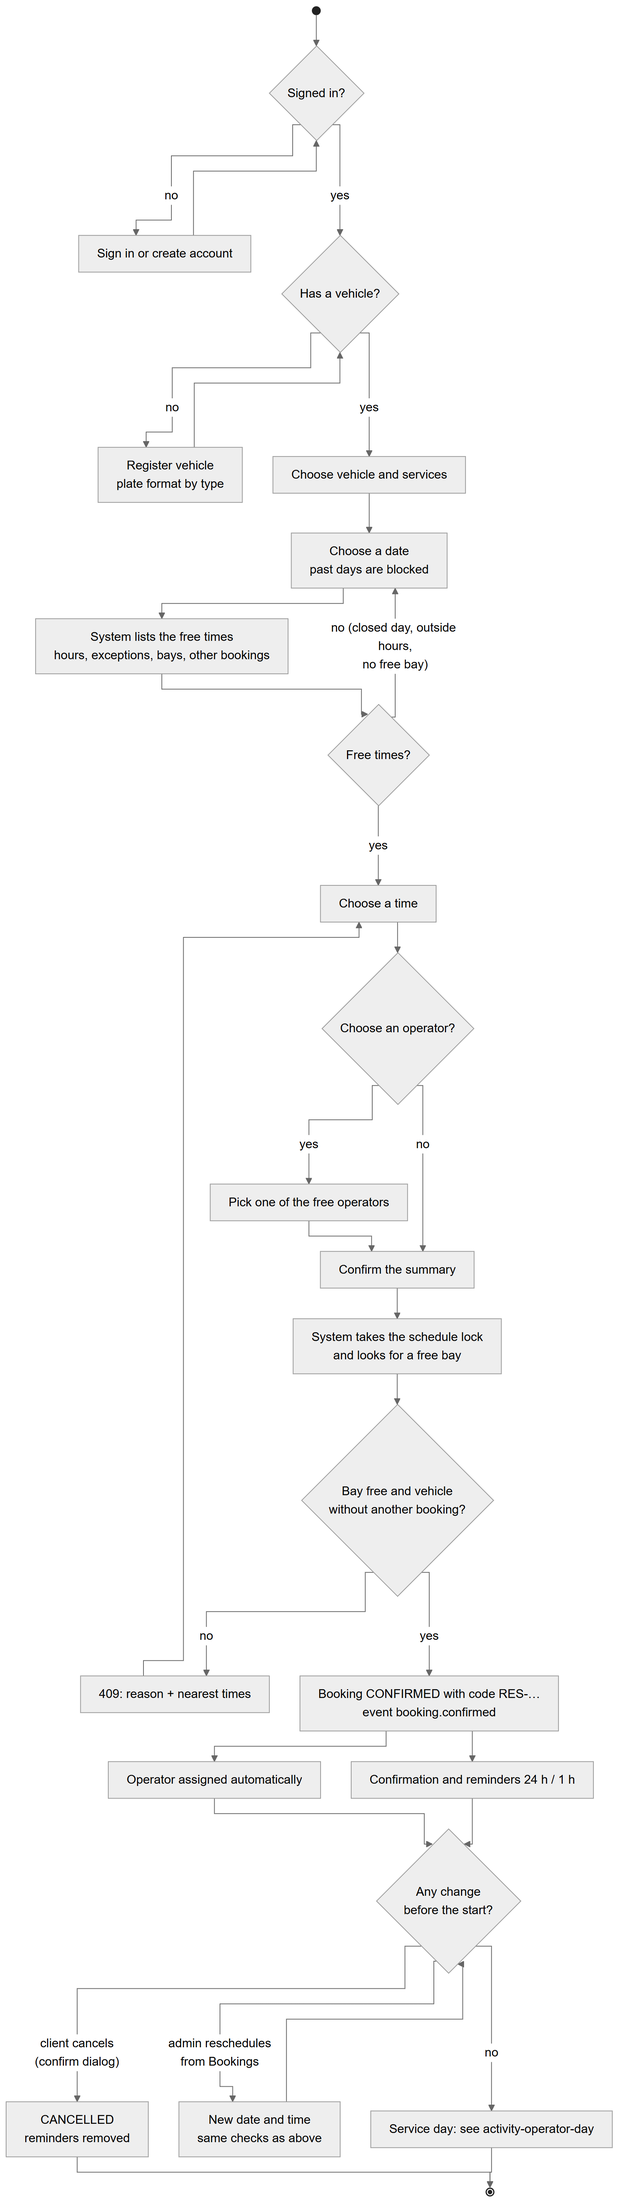
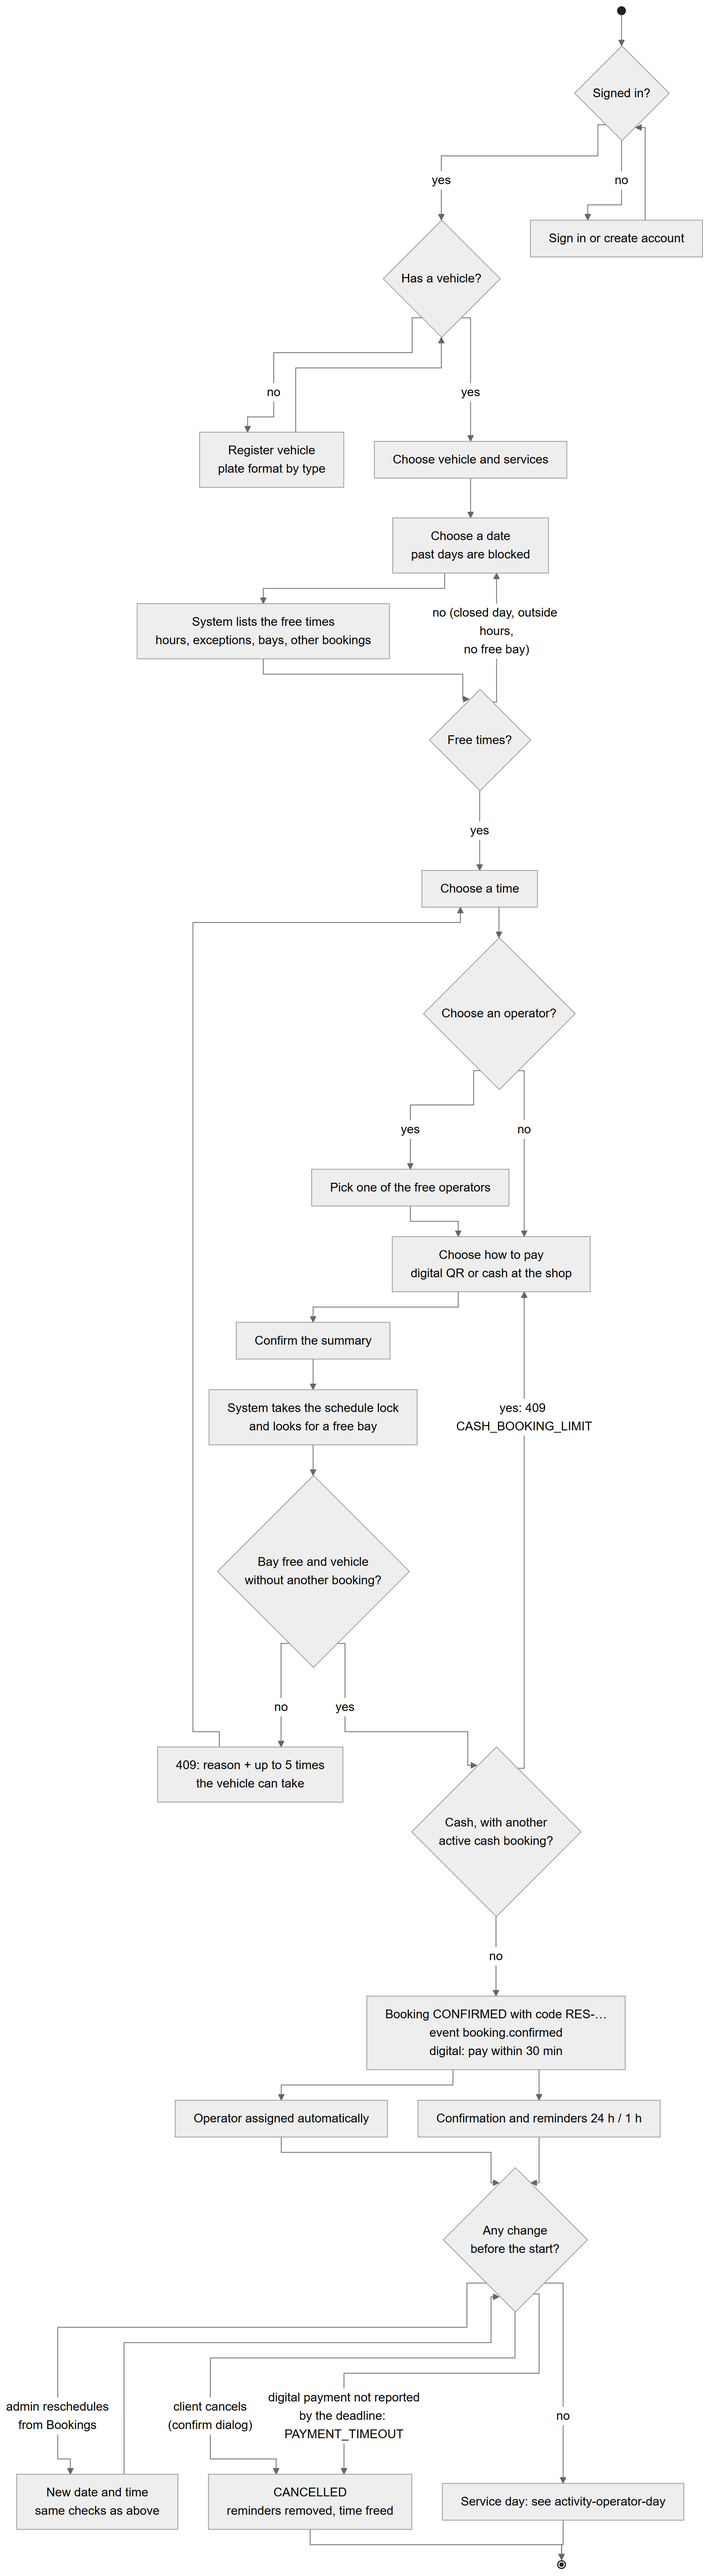
docs(uml): add payment mode, cash limit and payment deadline to the booking sequence and activity

diff --git a/08-uml/diagrams/source/seq-booking.md b/08-uml/diagrams/source/seq-booking.md
@@ -1,7 +1,8 @@
 # Sequence — Book a wash (RF-005, RF-006, RF-010)
 
-Source: `booking-service` `BookingService.availability / create`, `AvailabilityPolicy`,
-`CustomerVehicleDirectory`; checked against the code on 2026-10-19.
+Source: `booking-service` `BookingService.availability / create / cancelForPaymentTimeout`, `AvailabilityPolicy`,
+`PaymentPolicy`, `PaymentDeadlineJob`, `CustomerVehicleDirectory`, `PaymentStatusDirectory`; checked against
+the code on 2026-10-19, payment at booking added on 2026-10-27 (ADR-021).
 
 ```mermaid
 sequenceDiagram
@@ -10,6 +11,7 @@ sequenceDiagram
     participant W as Web
     participant B as booking-service
     participant CU as customer-service
+    participant P as payment-service
     participant DB as SQL Server
     participant MQ as RabbitMQ
     participant O as operations-service
@@ -20,27 +22,48 @@ sequenceDiagram
     W->>B: GET /api/v1/bookings/availability?date=…&vehicleTypeId=…&serviceIds=…
     B->>DB: business hours, exceptions, bays, bookings of the day
     B-->>W: free times (or the reason the day has none)
-    C->>W: Confirms a time (optionally an operator)
-    W->>B: POST /api/v1/bookings {vehicleId, serviceIds, start, notes, preferredOperatorId?}
-    B->>CU: GET /api/v1/vehicles/{id} (client JWT)
-    CU-->>B: vehicle + type (ownership checked, INV-BOOK-002)
-    B->>DB: sp_getapplock (schedule lock)
-    alt a bay is free and the vehicle has no other booking at that time
-        B->>DB: INSERT booking CONFIRMED + bay + lines with frozen prices
-        B-->>W: 201 booking (code RES-000042)
-        B-)MQ: BookingConfirmed (booking.confirmed, with preferredOperatorId), after commit
-        MQ-)O: BookingConfirmed → automatic assignment (SEQ-06)
-        MQ-)N: BookingConfirmed
-        N->>S: GET /internal/v1/users/{id}/contact (X-Internal-Key)
-        N->>N: BOOKING_CONFIRMED notification + reminders (24 h, 1 h)
-        N-->>C: inbox + push + email
-    else the vehicle already has a booking at that time
-        B-->>W: 409 VEHICLE_ALREADY_BOOKED
-    else no free bay, closed day, outside hours or time passed
-        B-->>W: 409 SLOT_UNAVAILABLE {reason: NO_FREE_BAY | CLOSED_DAY | OUTSIDE_HOURS | TIME_PASSED,<br/>alternatives: nearest free times, 5 by default}
+    C->>W: Confirms a time (optionally an operator) and the payment mode
+    W->>B: POST /api/v1/bookings {vehicleId, serviceIds (1 to 10), date, time, paymentMode, notes, preferredOperatorId?}
+    alt paymentMode missing or not DIGITAL / CASH
+        B-->>W: 400 INVALID_PAYMENT_MODE
+    else valid mode
+        B->>CU: GET /api/v1/vehicles/{id} (client JWT)
+        CU-->>B: vehicle + type (INV-BOOK-002)
+        B->>DB: sp_getapplock (schedule lock)
+        alt a bay is free, the vehicle is free and the cash limit allows it
+            B->>DB: INSERT booking CONFIRMED + bay + lines with frozen prices,<br/>payment_mode, payment_deadline (DIGITAL: min(now + 30 min, start))
+            B-->>W: 201 booking (code RES-000042, paymentMode, paymentDeadline)
+            B-)MQ: BookingConfirmed (booking.confirmed, with preferredOperatorId), after commit
+            MQ-)O: BookingConfirmed → automatic assignment (SEQ-06)
+            MQ-)N: BookingConfirmed
+            N->>S: GET /internal/v1/users/{id}/contact (X-Internal-Key)
+            N->>N: BOOKING_CONFIRMED notification + reminders (24 h, 1 h)
+            N-->>C: inbox + push + email
+        else the vehicle already has a booking at that time
+            B-->>W: 409 VEHICLE_ALREADY_BOOKED
+        else CASH and the client already has an active cash booking
+            B-->>W: 409 CASH_BOOKING_LIMIT
+        else no free bay, closed day, outside hours or time passed
+            B-->>W: 409 SLOT_UNAVAILABLE {reason: NO_FREE_BAY | CLOSED_DAY | OUTSIDE_HOURS | TIME_PASSED,<br/>alternatives: up to 5 free times of that day, without the vehicle's other bookings}
+        end
+    end
+
+    Note over B,DB: Every 60 s, PaymentDeadlineJob (DIGITAL bookings only)
+    B->>DB: DIGITAL bookings past payment_deadline with no payment_reported_at
+    B->>P: GET /internal/v1/payments/bookings/{id}/reported (X-Internal-Key)
+    alt reported = true
+        B->>DB: payment_reported_at = now (the booking is kept)
+    else reported = false
+        B->>DB: sp_getapplock, UPDATE booking CANCELLED, reason PAYMENT_TIMEOUT
+        B-)MQ: BookingCancelled (booking.cancelled, reasonCode PAYMENT_TIMEOUT)
+        MQ-)N: BookingCancelled → notice to the client, reminders cancelled
+    else no answer or error
+        B->>B: not cancelled in this round (PAYMENT_SERVICE_UNAVAILABLE), tried again in the next
     end
 ```
 
 The availability call's exact parameters are in `07-api/contracts/openapi/booking-service.yaml`. The web and
 the app translate `reason` into the message shown to the customer. Operator assignment after the
-event: [seq-auto-assignment](./seq-auto-assignment.md).
+event: [seq-auto-assignment](./seq-auto-assignment.md). How the reported payment reaches booking
+before the deadline (`payment.reported`): [seq-payment](./seq-payment.md). Admin bookings have no payment
+deadline and no cash limit; a reschedule keeps the deadline.

diff --git a/08-uml/diagrams/source/activity-booking.md b/08-uml/diagrams/source/activity-booking.md
@@ -4,7 +4,7 @@ Built from the web and app booking screens and `booking-service` (`BookingUseCas
 create / reschedule / cancel`). Sequence with the services: [seq-booking](./seq-booking.md). The client
 cancels from the history or the payment screen (confirm dialog, no reason asked); neither the web nor the app has a reschedule
 screen for the client, so a new date is set by the administrator from Bookings (CU29). Checked on
-2026-10-20.
+2026-10-20; payment mode, cash limit and payment deadline added on 2026-10-27 (ADR-021).
 
 ```mermaid
 flowchart TD
@@ -20,16 +20,20 @@ flowchart TD
     hasfree -- yes --> time[Choose a time]
     time --> op{Choose an operator?}
     op -- yes --> chooseop[Pick one of the free operators]
-    op -- no --> confirm
-    chooseop --> confirm[Confirm the summary]
+    op -- no --> paymode
+    chooseop --> paymode[Choose how to pay<br/>digital QR or cash at the shop]
+    paymode --> confirm[Confirm the summary]
     confirm --> create[System takes the schedule lock<br/>and looks for a free bay]
     create --> ok{Bay free and vehicle<br/>without another booking?}
-    ok -- no --> alt[409: reason + nearest times] --> time
-    ok -- yes --> done[Booking CONFIRMED with code RES-…<br/>event booking.confirmed]
+    ok -- no --> alt[409: reason + up to 5 times<br/>the vehicle can take] --> time
+    ok -- yes --> cash{Cash, with another<br/>active cash booking?}
+    cash -- "yes: 409 CASH_BOOKING_LIMIT" --> paymode
+    cash -- no --> done[Booking CONFIRMED with code RES-…<br/>event booking.confirmed<br/>digital: pay within 30 min]
     done --> par1[Operator assigned automatically]
     done --> par2[Confirmation and reminders 24 h / 1 h]
     par1 & par2 --> wait{Any change<br/>before the start?}
-    wait -- "client cancels<br/>(confirm dialog)" --> cancelled[CANCELLED<br/>reminders removed]
+    wait -- "client cancels<br/>(confirm dialog)" --> cancelled[CANCELLED<br/>reminders removed, time freed]
+    wait -- "digital payment not reported<br/>by the deadline: PAYMENT_TIMEOUT" --> cancelled
     wait -- "admin reschedules<br/>from Bookings" --> resched[New date and time<br/>same checks as above] --> wait
     wait -- no --> service[Service day: see activity-operator-day]
     cancelled --> stop((End))
